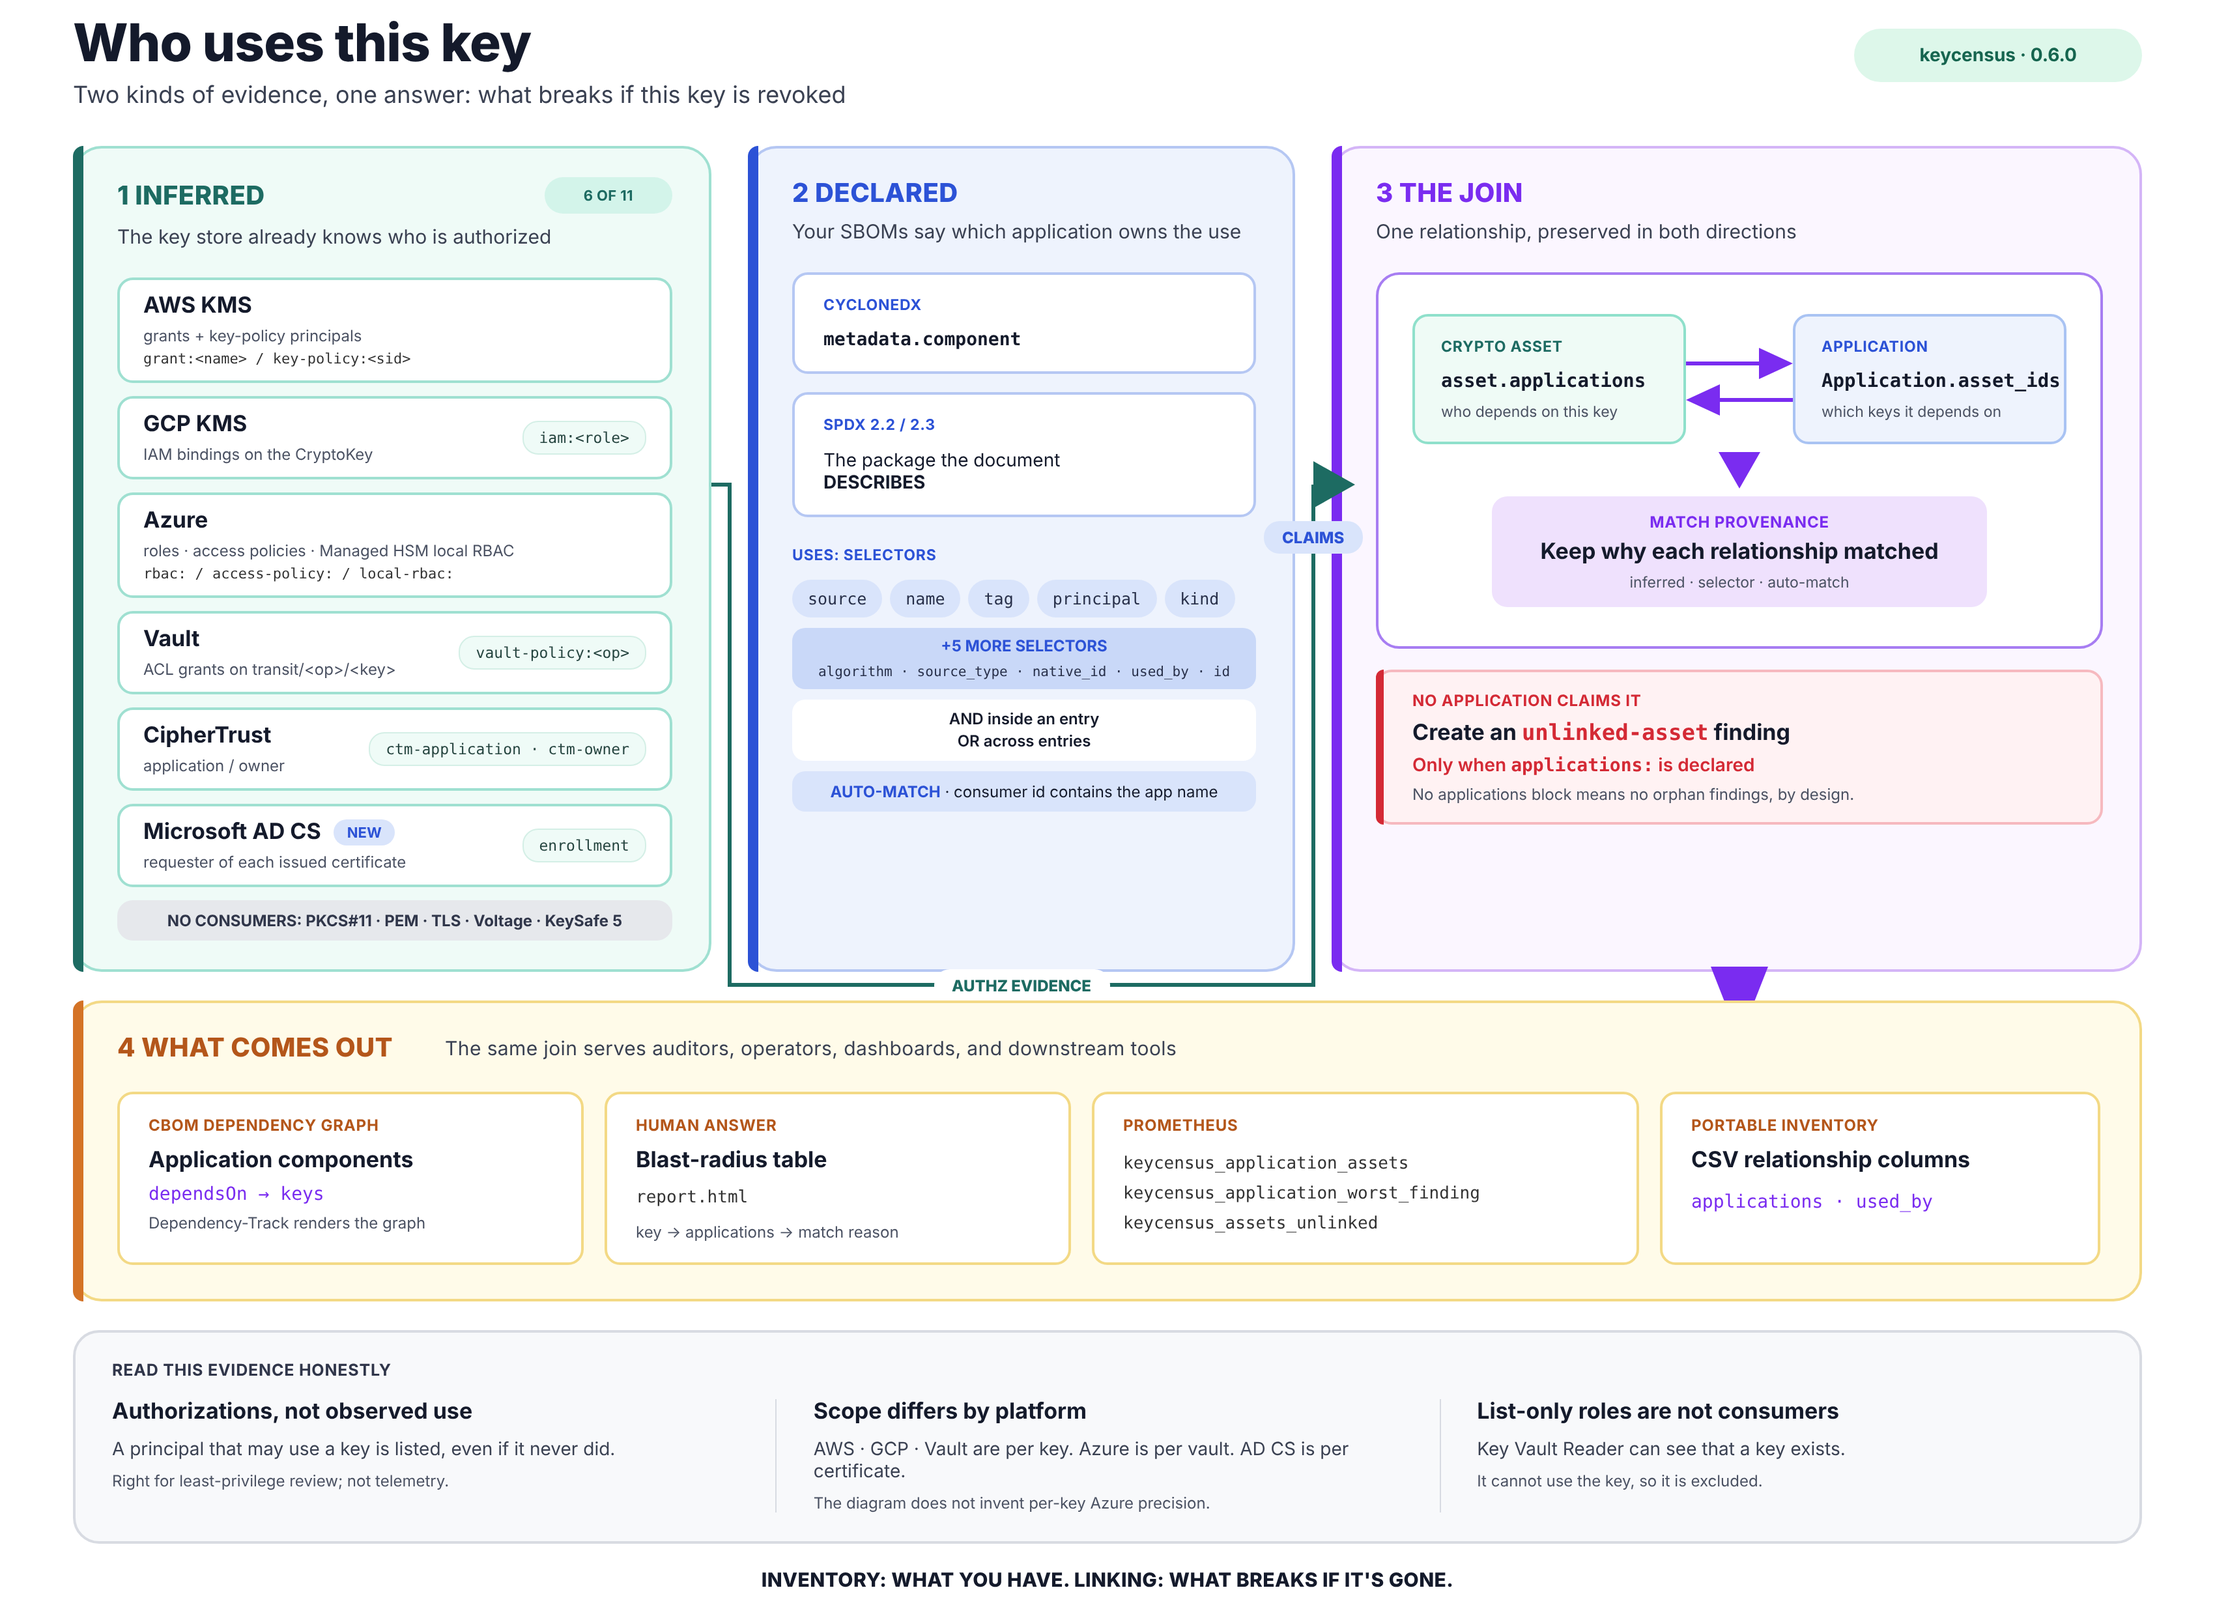
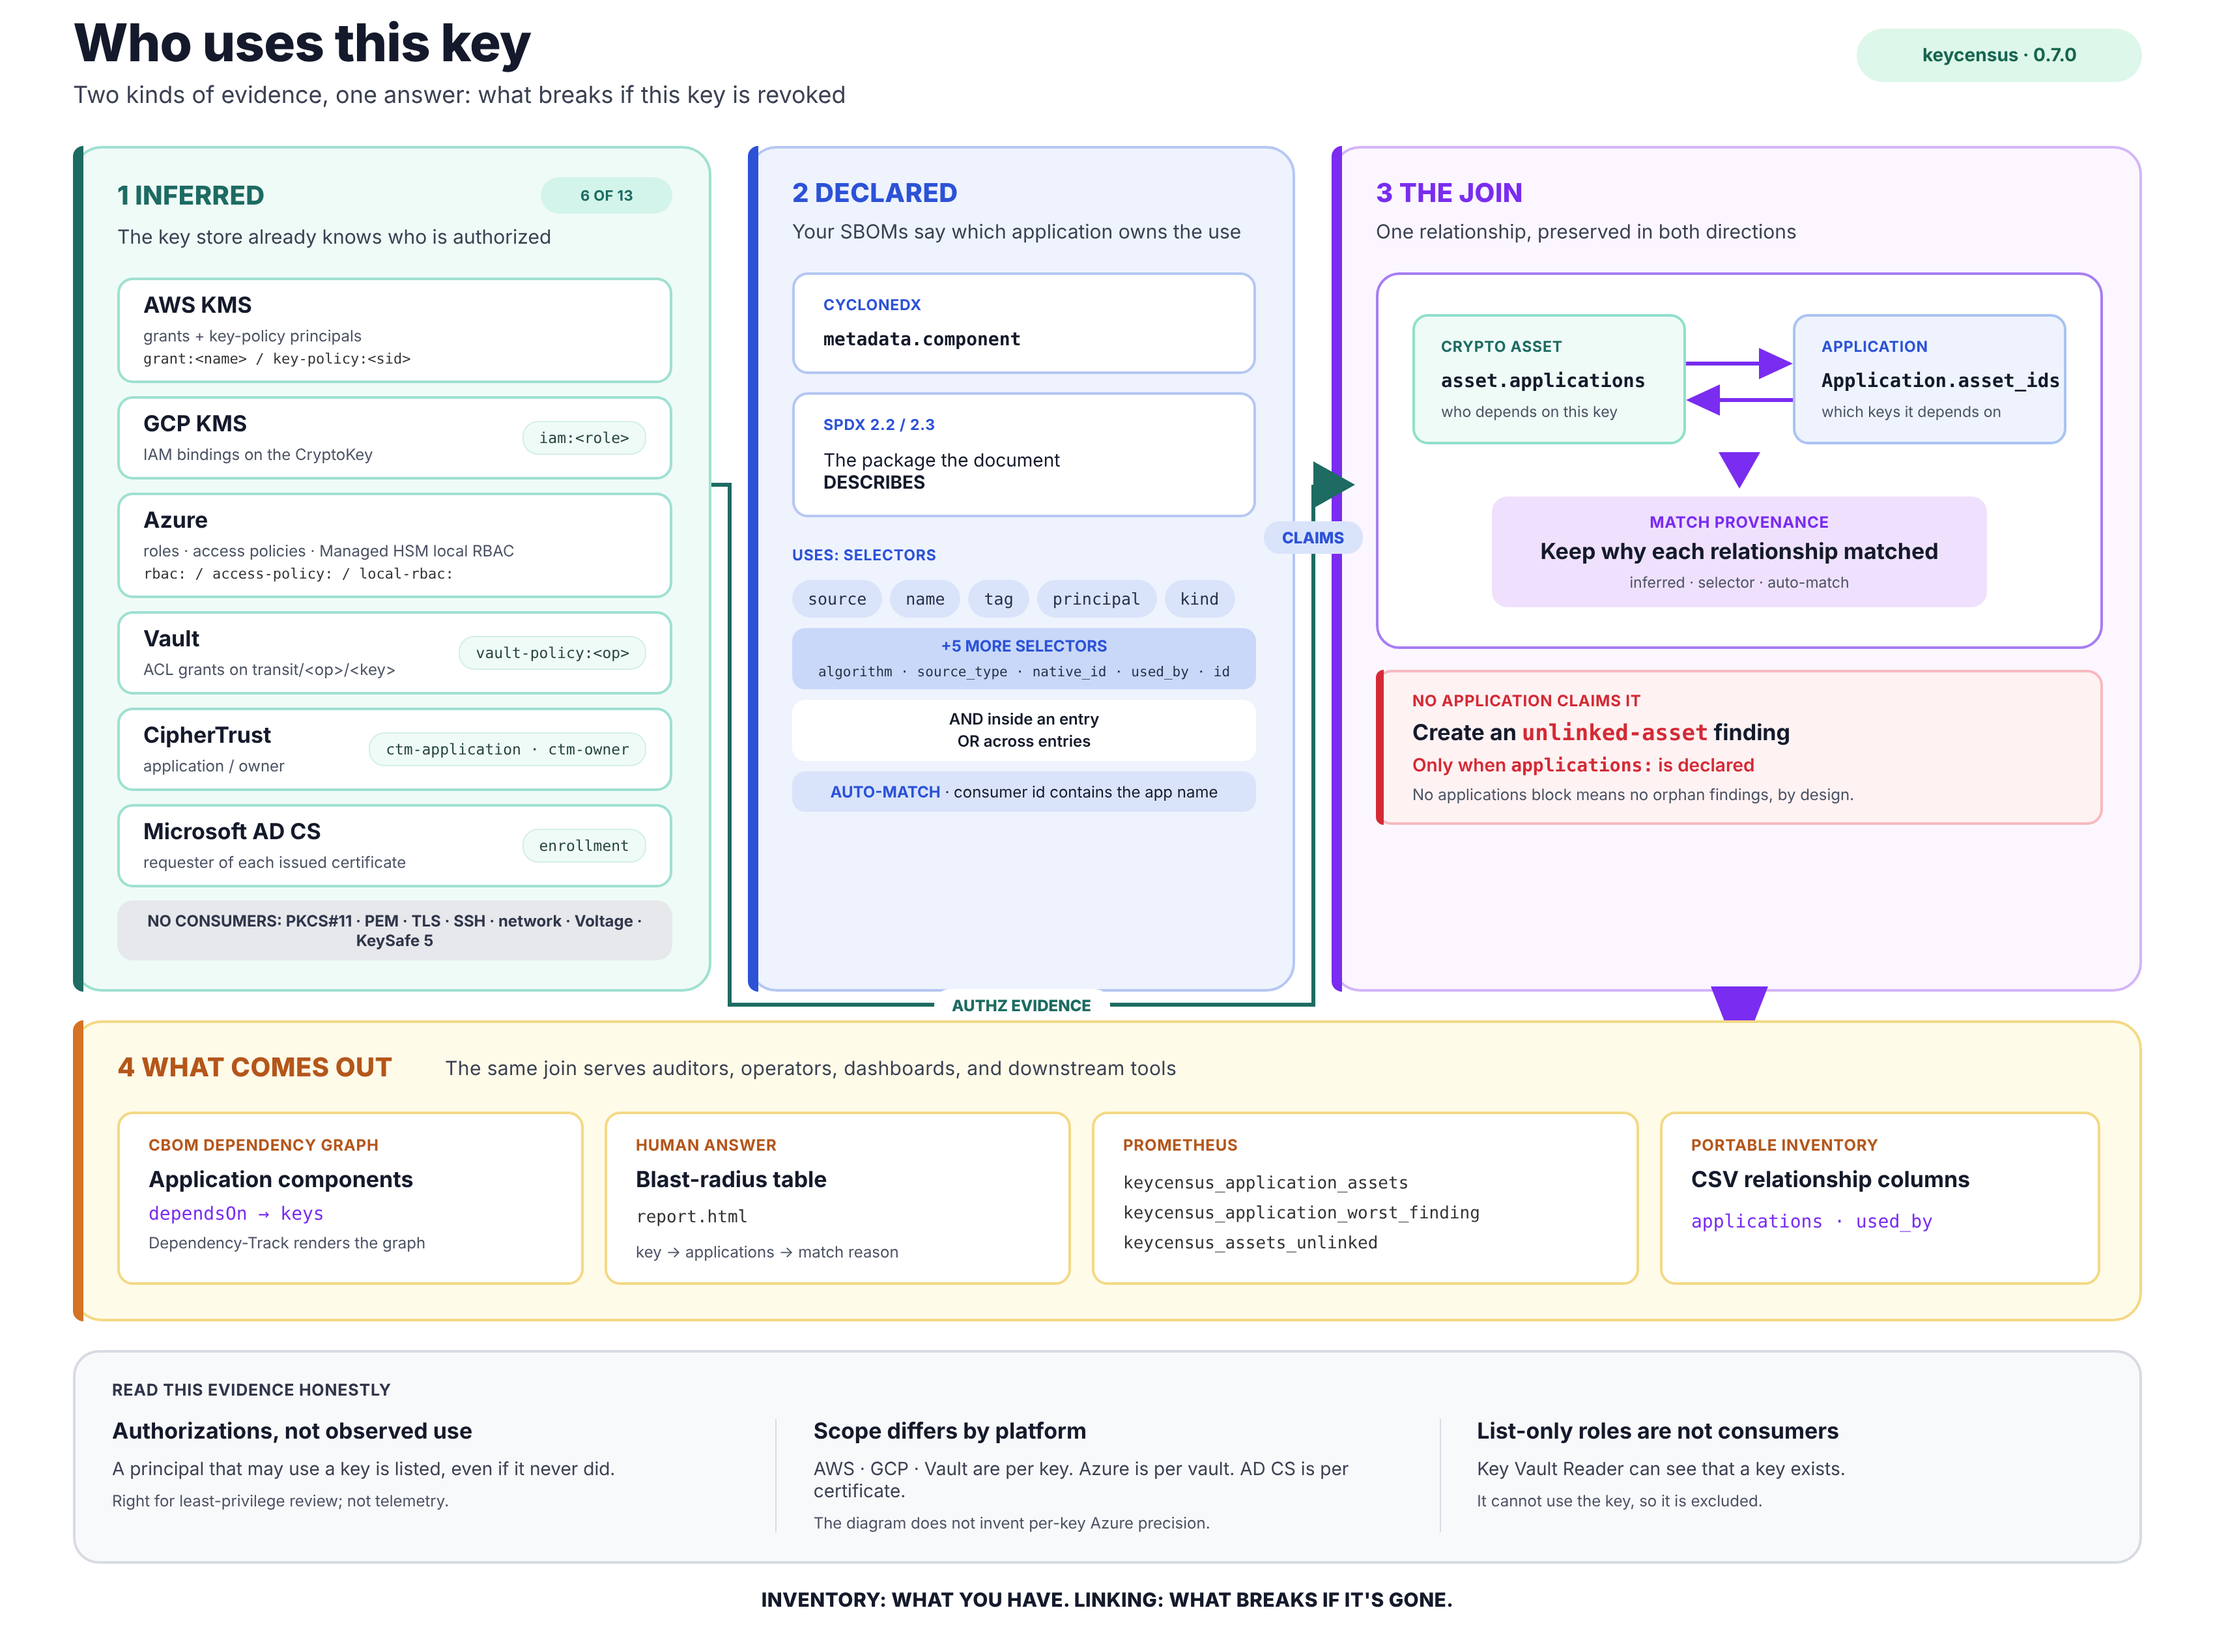
docs: bring every page in line with 0.7.0
- DIFF.md lists key exchange and accepted legacy TLS versions as watched fields.
- ALERTING.md: gaining a post-quantum key exchange is ignored; 32 kinds, 13 page.
- CONTRIBUTING.md asks for the collectors still on the roadmap, and for scan
  output from hybrid TLS and SSH endpoints.
- FAQ.md: what the TLS and SSH probes do and do not do.
- Helm README: network scanning needs pod egress; cloud discovery roles.
- README: demo endpoint shows the classical key exchange finding.
- Who-uses-this-key diagram: 0.7.0, 6 of 13 collectors infer consumers.
- pyproject description mentions SSH and discovery.

diff --git a/README.md b/README.md
@@ -83,7 +83,7 @@ Nothing is faked in the *code path* — only the *backends* are stand-ins:
 | `fake-aws` | moto — an AWS API mock so faithful that real `boto3` doesn't notice | rotation disabled, disabled key, quantum-vulnerable signing keys |
 | `voltage` | A mock inventory export in the canonical Voltage shape | rotation overdue (800 days), 3DES, software-only keys |
 | `app-certs` | A folder of deliberately imperfect PEM files | expired cert, expiring-in-10-days, RSA-1024, orphan private key |
-| `edges` | The mock's HTTPS port, scanned like any TLS endpoint | self-signed, expiring cert |
+| `edges` | The mock's HTTPS port, scanned like any TLS endpoint | self-signed, expiring cert, classical key exchange (no X25519MLKEM768) |
 | *applications* | Two CycloneDX SBOMs (`demo/sboms/`) plus a declared app, linked to the keys above via selectors, KMS grants and Vault policies | the Applications table, `unlinked-asset` findings for orphan keys |
 
 ### What the output looks like
@@ -99,7 +99,7 @@ sources:  6/6 ok
   - voltage (voltage): 7 assets
   - app-certs (pem): 8 assets
   - edges (tls): 2 assets
-findings: critical=1, high=5, medium=14, low=25, info=19
+findings: critical=1, high=5, medium=15, low=25, info=19
 
   [critical] legacy.batch — Certificate has EXPIRED
   [high    ] old.reporting — RSA-1024 is below the strong-cryptography minimum

diff --git a/helm/keycensus/README.md b/helm/keycensus/README.md
@@ -55,6 +55,11 @@ serviceAccount:
   `extraVolumeMounts`. Network HSMs must be reachable from the cluster (NTLS 1792 for Luna, 9004 for nShield).
 * **Cloud collectors** use workload identity when `auth: default`: annotate the service account for AKS / GKE / EKS
   and grant the read-only roles listed in `docs/COLLECTORS.md`.
+* **`network` sources scan from the pod.** The pod needs egress to the ranges and ports you list; a
+  NetworkPolicy that only allows the sources' APIs will make every port look closed. Tell whoever watches
+  your IDS before the CronJob's first run.
+* **Cloud discovery** (`organization: true`, `discover: true`) runs with the same workload identity; give it
+  the organization-wide read roles listed in `docs/COLLECTORS.md`, not an administrator role.
 * **Secrets** never go in values. `existingSecret` is mounted with `envFrom`; the keys are the env var names your
   sources reference (`token_env`, `pin_env`, ...). Dependency-Track's key goes in its own Secret (`DTRACK_API_KEY`).
 * The container runs as UID 10001 with a read-only root filesystem; `/out` and `/tmp` are writable volumes.

diff --git a/CONTRIBUTING.md b/CONTRIBUTING.md
@@ -6,8 +6,10 @@ Most valuable contributions, in order:
    Voltage Management Console export, a KMS `DescribeKey` from a CloudHSM key store, the header
    row and one redacted row of a `certutil -view ... csv` export from an AD CS CA (especially a
    non-English one). These let us lock down field mappings against reality.
-2. **New collectors**: Azure Key Vault / Managed HSM, Google Cloud KMS, CipherTrust Manager,
-   KeySafe 5, Kubernetes secrets, JKS/PKCS#12 files.
+   Also useful: the `keycensus scan` output for a TLS endpoint behind your load balancer or CDN that
+   negotiates X25519MLKEM768, and for an SSH server offering `mlkem768x25519-sha256`.
+2. **New collectors** (see the README roadmap): Kubernetes secrets and cert-manager, JKS / PKCS#12
+   keystores, SSH host and user keys on disk, Certificate Transparency logs, LDAP StartTLS on 389.
 3. Rules you wish existed, with the control they map to.
 
 ## Dev setup

diff --git a/docs/ALERTING.md b/docs/ALERTING.md
@@ -49,7 +49,7 @@ keycensus changes --kinds        # the whole vocabulary and its default urgency
 | `source-removed` | A source left the config; its assets are no longer watched by anything. |
 | `finding-new-critical`, `finding-new-high` | A new serious finding since the last scan. |
 
-Everything else is `digest` (new keys, consumer changes, certificate replacement, expiry moving in, application links) or `ignore` (rotation, strengthening, resolved findings, metadata).
+Everything else is `digest` (new keys, consumer changes, certificate replacement, expiry moving in, application links) or `ignore` (rotation, strengthening, an endpoint gaining a post-quantum key exchange, resolved findings, metadata). `keycensus changes --kinds` prints all 32 kinds; 13 page by default.
 
 ### Re-mapping it for your estate
 

diff --git a/docs/DIFF.md b/docs/DIFF.md
@@ -5,7 +5,8 @@ An inventory is only interesting the second time you take it. Diff mode compares
 
 * **What appeared / disappeared** — new keys, deleted certificates, a source that vanished.
 * **What changed on the things that stayed** — state, expiry, last rotation, rotation setting,
-  algorithm/size/curve, exportability, hardware backing, purposes, TLS version, fingerprint, location.
+  algorithm/size/curve, exportability, hardware backing, purposes, TLS version, legacy TLS versions
+  accepted, key exchange (TLS 1.3 group or SSH kex), fingerprint, location.
 * **Which findings are new and which were resolved** — matched by `(rule, asset)`.
 * **Which sources broke or got fixed** — a collector that errored this time but not last time.
 

diff --git a/docs/FAQ.md b/docs/FAQ.md
@@ -4,6 +4,8 @@
 Yes — it only reads. PKCS#11: `C_FindObjects` + `C_GetAttributeValue` on public attributes.
 Vault: `list` + `read` on key metadata. AWS: `List*`/`Describe*`/`Get*RotationStatus`. Use
 read-only roles/policies (examples in [COLLECTORS.md](COLLECTORS.md)) and it *cannot* change anything.
+Endpoints are probed, not logged into: a TLS handshake plus one unfinished ClientHello per probe, and
+for SSH the banner and algorithm list the server sends before authentication.
 
 **Does it ever see key material?**
 No. It never reads `CKA_VALUE`, never exports, never calls `GetPublicKey` on KMS, never reads Vault
